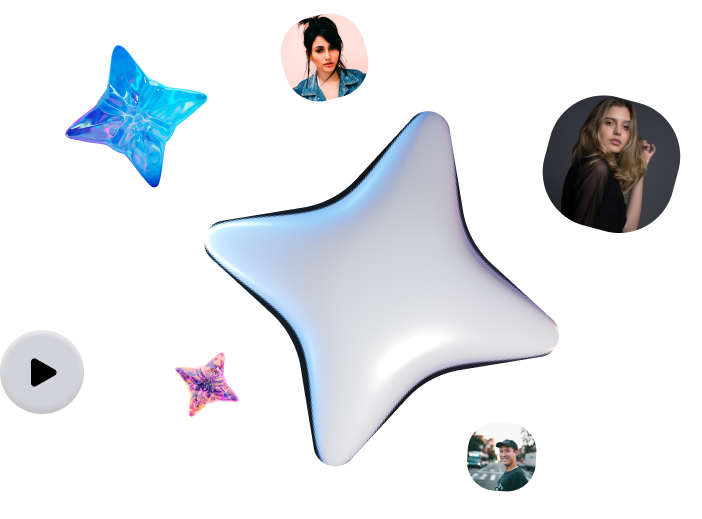
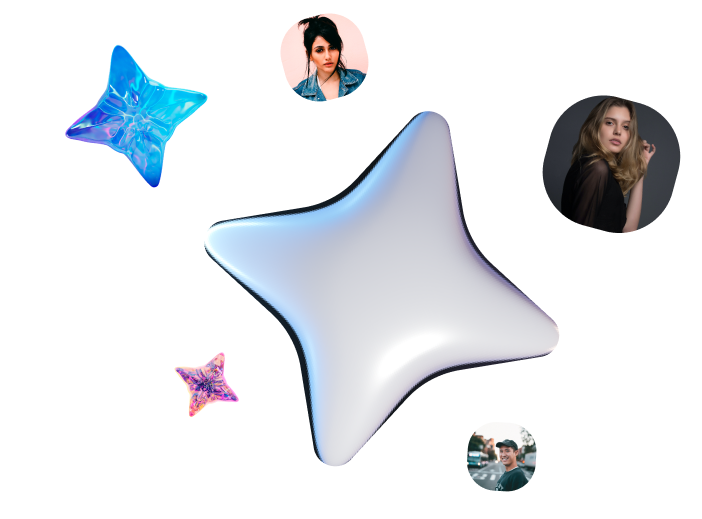
[WEB-737]: add animation for img

Changed region(s): [[0.0, 0.6166, 0.1197, 0.8015]]

diff --git a/src/pages/Jobs/styles.module.scss b/src/pages/Jobs/styles.module.scss
@@ -46,7 +46,13 @@
 }
 
 .stars {
-	width: 500px;
+	width: 540px;
+	animation: fadeIn 5s;
+}
+
+@keyframes fadeIn {
+  0% { opacity: 0; }
+  100% { opacity: 1; }
 }
 
 .button_group {
